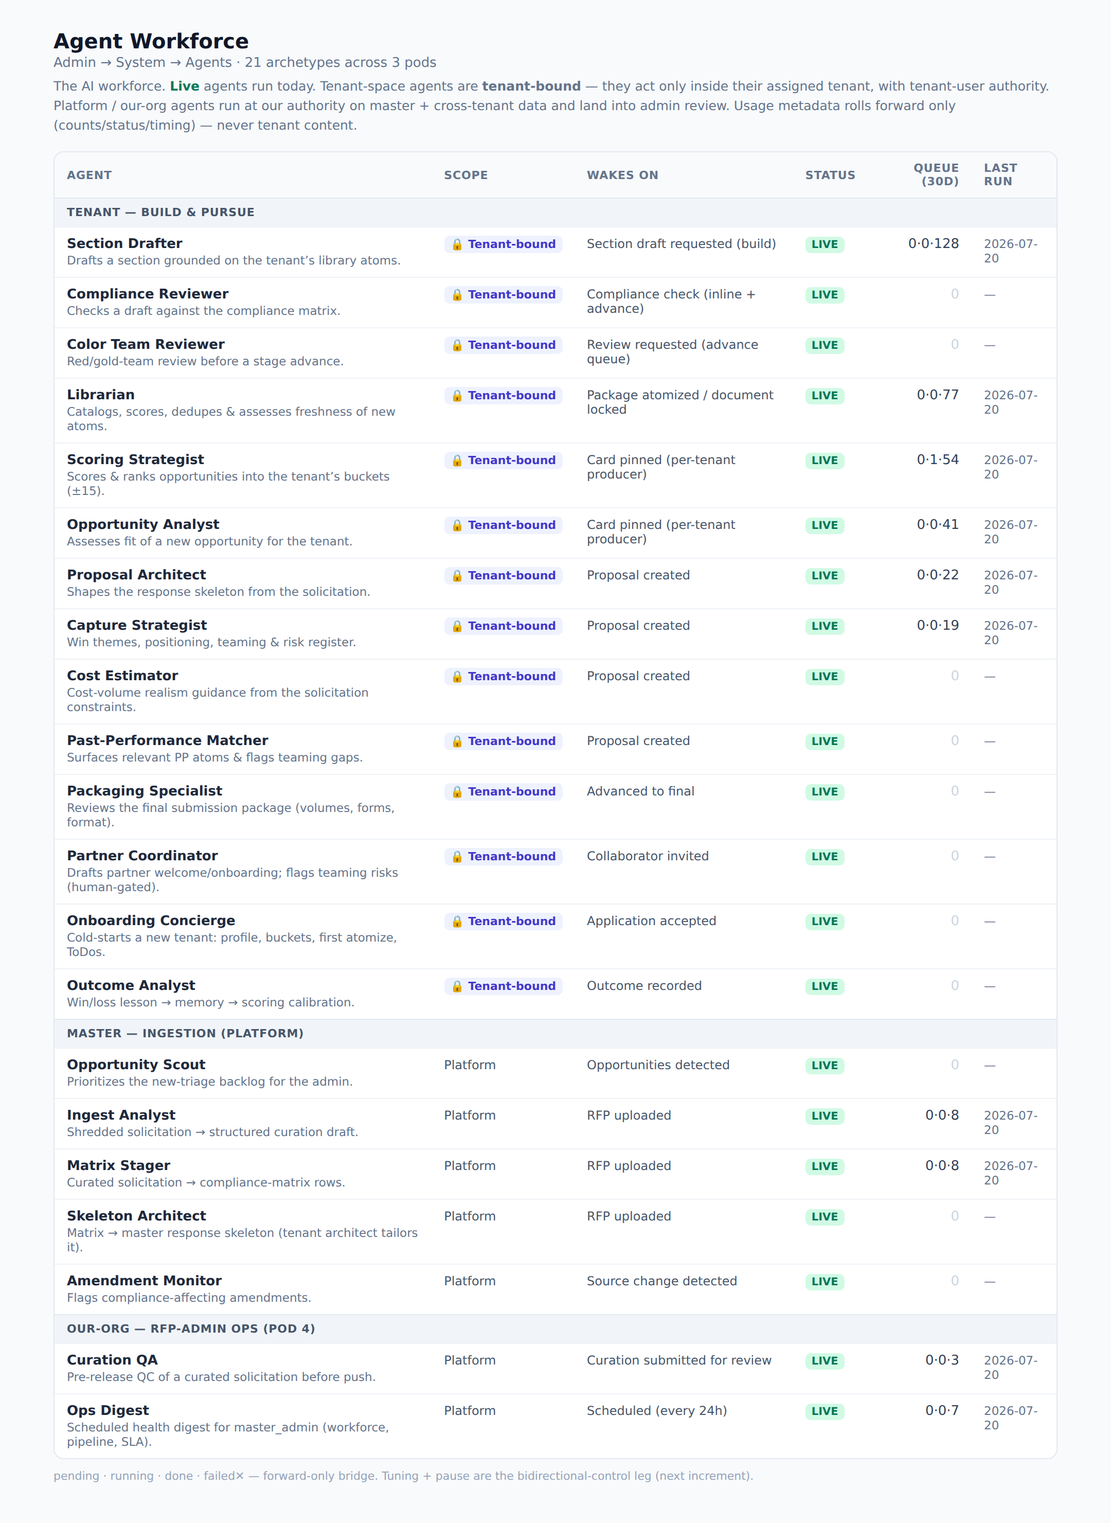
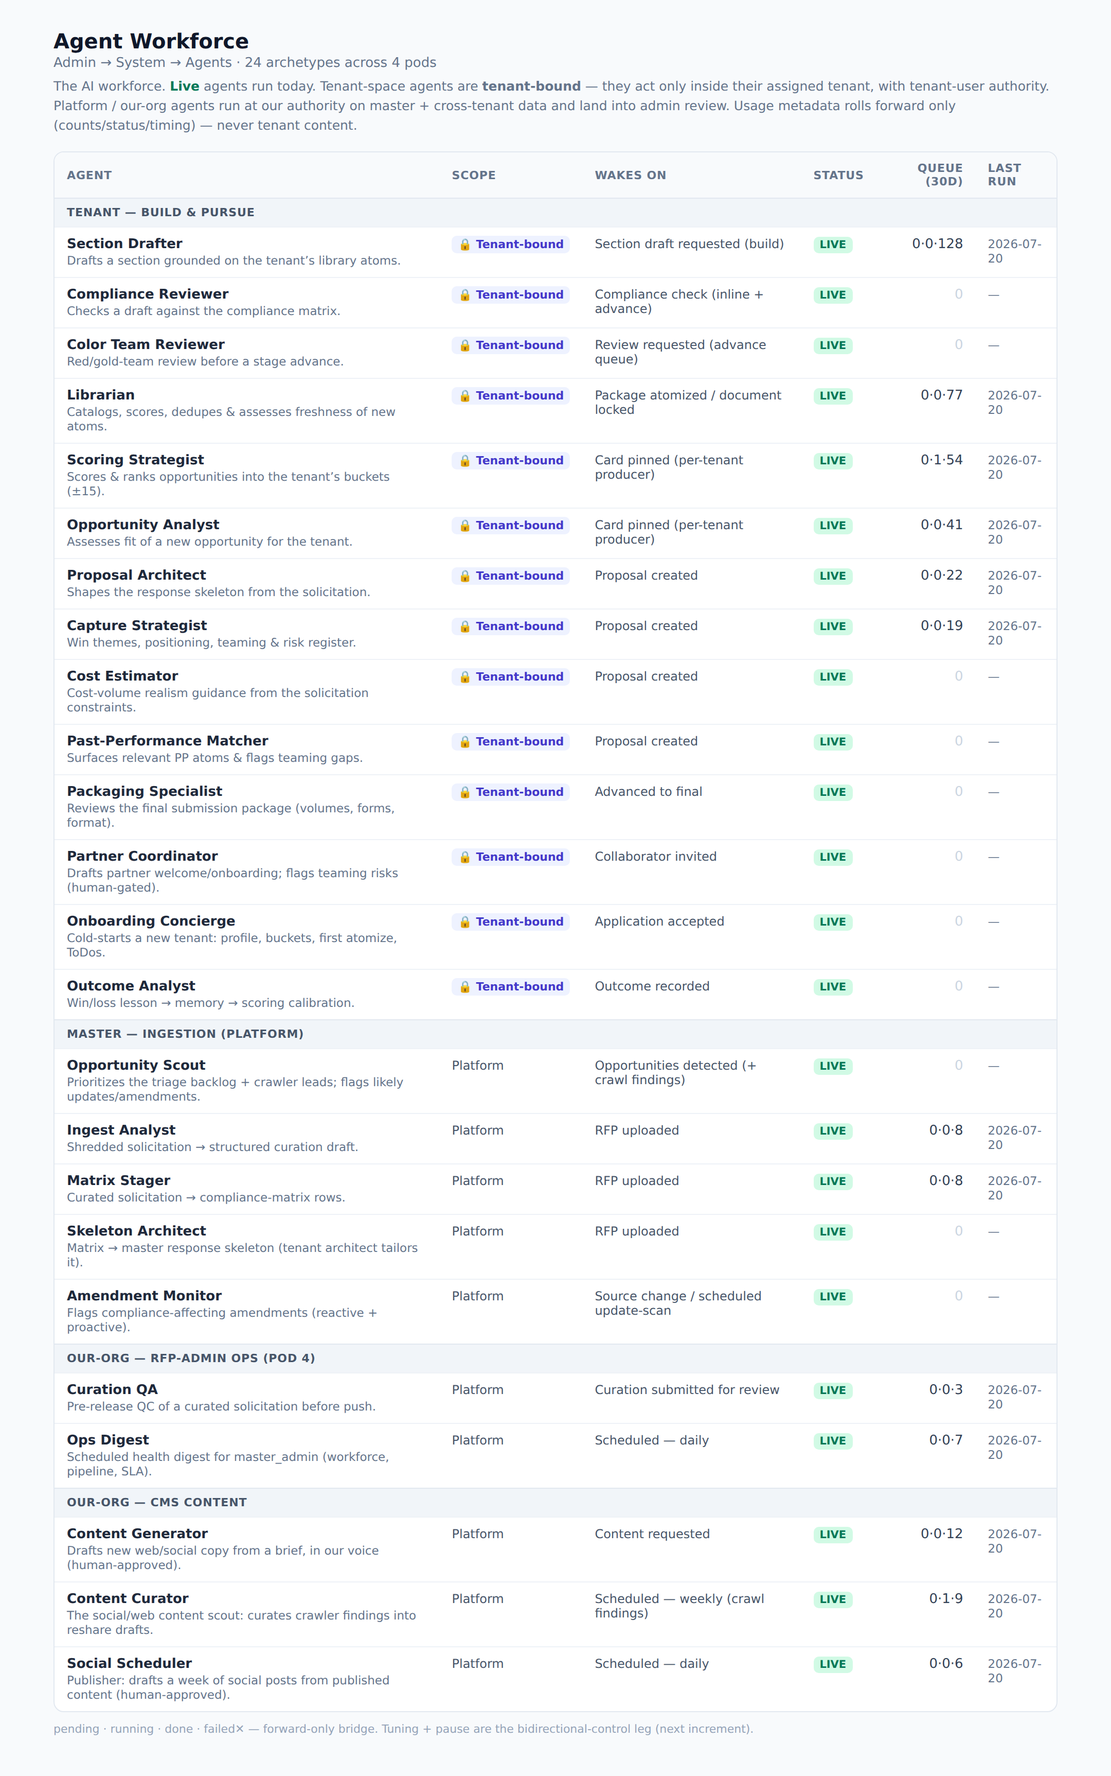
Crawler worker + oversight/docs/screenshot — scout/CMS run complete (24 archetypes)
- workers/content_crawler.py — the WORKER that feeds the scouts: reads enabled scout_sources,
  fetches via a PLUGGABLE fetcher, upserts deduped scout_findings (ON CONFLICT restates the
  partial-index WHERE per the CLAUDE.md SOP), and logs a scout_runs history row with outcome.
  Fetcher injected → DB write/dedup/history loop is testable without network; deploy plugs in an
  RSS/HTML/social fetcher. Drive-tested (crawl→findings→run, dedup→0-new, failed-fetch→failed run).
- /admin/agents roster: added the CMS content pod (content_generator/curator/social_scheduler) +
  updated the scout/amendment triggers → 24 agents across 4 pods. tsc clean. Screenshot regenerated.
- docs/AGENT_ORG_WORKFORCE.md: CMS pod + scout expansion + crawl architecture (sources → findings →
  agents, with run-history/outcomes), the shared-cron/UTC/display-tz model, email delivery to the
  team inbox, and the mailing-list scout as a one-fetcher extension.

226 agent/workflow/cron/crawler tests green.

Claude-Session: https://claude.ai/code/session_014WpKLE6LTPMraFbTacbbBV

diff --git a/frontend/components/admin/agent-workforce.tsx b/frontend/components/admin/agent-workforce.tsx
@@ -12,7 +12,11 @@
 import { useEffect, useState } from 'react';
 
 type Status = 'live' | 'wired' | 'dormant';
-type Pod = 'Tenant — build & pursue' | 'Master — ingestion (platform)' | 'Our-org — RFP-admin ops';
+type Pod =
+  | 'Tenant — build & pursue'
+  | 'Master — ingestion (platform)'
+  | 'Our-org — RFP-admin ops'
+  | 'Our-org — CMS content';
 interface Agent {
   role: string;
   label: string;
@@ -27,6 +31,7 @@ const POD_ORDER: Pod[] = [
   'Tenant — build & pursue',
   'Master — ingestion (platform)',
   'Our-org — RFP-admin ops',
+  'Our-org — CMS content',
 ];
 
 // The 21 archetypes registered in the pipeline AgentFabric, grouped by pod. Tenant-scope
@@ -50,14 +55,18 @@ const ROSTER: Agent[] = [
   { role: 'onboarding_agent', label: 'Onboarding Concierge', scope: 'tenant', trigger: 'Application accepted', status: 'live', pod: 'Tenant — build & pursue', does: 'Cold-starts a new tenant: profile, buckets, first atomize, getting-started ToDos.' },
   { role: 'outcome_analyst', label: 'Outcome Analyst', scope: 'tenant', trigger: 'Outcome recorded', status: 'live', pod: 'Tenant — build & pursue', does: 'Win/loss lesson → memory → scoring calibration.' },
   // ── Master — ingestion (platform) ────────────────────────────────────────
-  { role: 'opportunity_scout', label: 'Opportunity Scout', scope: 'platform', trigger: 'Opportunities detected', status: 'live', pod: 'Master — ingestion (platform)', does: 'Prioritizes the new-triage backlog for the admin.' },
+  { role: 'opportunity_scout', label: 'Opportunity Scout', scope: 'platform', trigger: 'Opportunities detected (+ crawl findings)', status: 'live', pod: 'Master — ingestion (platform)', does: 'Prioritizes the triage backlog + crawler leads; flags likely updates/amendments.' },
   { role: 'ingest_analyst', label: 'Ingest Analyst', scope: 'platform', trigger: 'RFP uploaded', status: 'live', pod: 'Master — ingestion (platform)', does: 'Shredded solicitation → structured curation draft.' },
   { role: 'matrix_stager', label: 'Matrix Stager', scope: 'platform', trigger: 'RFP uploaded', status: 'live', pod: 'Master — ingestion (platform)', does: 'Curated solicitation → compliance-matrix rows.' },
   { role: 'skeleton_architect', label: 'Skeleton Architect', scope: 'platform', trigger: 'RFP uploaded', status: 'live', pod: 'Master — ingestion (platform)', does: 'Matrix → master response skeleton (tenant architect tailors it).' },
   { role: 'amendment_monitor', label: 'Amendment Monitor', scope: 'platform', trigger: 'Source change detected', status: 'live', pod: 'Master — ingestion (platform)', does: 'Flags compliance-affecting amendments.' },
   // ── Our-org — RFP-admin ops (POD 4) ──────────────────────────────────────
   { role: 'curation_qa', label: 'Curation QA', scope: 'platform', trigger: 'Curation submitted for review', status: 'live', pod: 'Our-org — RFP-admin ops', does: 'Pre-release QC of a curated solicitation before push.' },
-  { role: 'ops_digest', label: 'Ops Digest', scope: 'platform', trigger: 'Scheduled (every 24h)', status: 'live', pod: 'Our-org — RFP-admin ops', does: 'Scheduled health digest for master_admin (workforce, pipeline, SLA).' },
+  { role: 'ops_digest', label: 'Ops Digest', scope: 'platform', trigger: 'Scheduled — daily', status: 'live', pod: 'Our-org — RFP-admin ops', does: 'Scheduled health digest for master_admin (workforce, pipeline, SLA).' },
+  // ── Our-org — CMS content ────────────────────────────────────────────────
+  { role: 'content_generator', label: 'Content Generator', scope: 'platform', trigger: 'Content requested', status: 'live', pod: 'Our-org — CMS content', does: 'Drafts new web/social copy from a brief, in our published voice (human-approved).' },
+  { role: 'content_curator', label: 'Content Curator', scope: 'platform', trigger: 'Scheduled — weekly (crawl findings)', status: 'live', pod: 'Our-org — CMS content', does: 'The social/web content scout: curates crawler findings into reshare drafts.' },
+  { role: 'social_scheduler', label: 'Social Scheduler', scope: 'platform', trigger: 'Scheduled — daily', status: 'live', pod: 'Our-org — CMS content', does: 'Publisher: drafts a week of social posts from published content (human-approved).' },
 ];
 
 interface Stat { pending: number; running: number; done: number; failed: number; lastRun: string | null }

diff --git a/pipeline/src/workers/content_crawler.py b/pipeline/src/workers/content_crawler.py
@@ -1,0 +1,102 @@
+"""
+================================================================================
+Content / Opportunity Crawler  (the WORKER that feeds the scouts)
+================================================================================
+
+Reads enabled `scout_sources` (org websites / social handles / RSS), fetches candidate
+items via a PLUGGABLE fetcher, dedups, and writes them to `scout_findings` — plus a
+`scout_runs` history row (role scout|watcher, kind='crawl') carrying the run's outcome.
+The agents READ the findings: content_curator (reshare drafts) and opportunity_scout
+(triage leads). This is the content/opportunity analog of how the ingesters populate
+`opportunities`.
+
+ARCHITECTURE (same as everything else):
+  - Runs on the SHARED cron: a scheduled `library:content.crawl_requested` event → an ACTION
+    step calls crawl_all(). One time manager, one audit trail (scout_runs), forward-only.
+  - The FETCHER is injected. On deploy it is an RSS/HTML/social fetcher making outbound HTTPS
+    via the agent proxy (respecting robots + rate limits) or an org's social API; in tests it's
+    a stub. Keeping fetch pluggable means the DB write/dedup/history loop is testable without
+    network, and new source kinds (mailing lists, etc.) are a new fetcher, not a new pipeline.
+  - Idempotent: dedup_hash(source,url,title) + ON CONFLICT DO NOTHING, so re-crawls don't
+    duplicate. Findings start status='new'; their OUTCOME (reposted/pursued/dismissed) is set
+    downstream by the curator/scout landing.
+================================================================================
+"""
+import hashlib
+import json
+import logging
+
+logger = logging.getLogger("pipeline.workers.content_crawler")
+
+
+def dedup_hash(source_id, url: str | None, title: str | None) -> str:
+    """Stable idempotency key for a finding."""
+    return hashlib.sha256(f"{source_id}|{url or ''}|{title or ''}".encode("utf-8")).hexdigest()
+
+
+async def crawl_source(conn, source: dict, fetch_fn) -> dict:
+    """Crawl one source: open a scout_runs row, fetch candidate items, upsert findings
+    (idempotent), then finalize the run with counts + outcome. `fetch_fn(source)` returns a
+    list of dicts: {title, url, snippet, author, published_at, kind}. Never raises — a failed
+    source is recorded as a failed run and the crawl continues."""
+    purpose = source.get("purpose", "content")
+    role = "watcher" if purpose == "opportunity" else "scout"
+    run_id = await conn.fetchval(
+        """INSERT INTO scout_runs (role, kind, source_id, triggered_by, started_at, status)
+           VALUES ($1, 'crawl', $2, 'cron', now(), 'running') RETURNING id""",
+        role, source["id"],
+    )
+    found = new = 0
+    error = None
+    status = "completed"
+    try:
+        items = await fetch_fn(source)
+        for it in (items or []):
+            found += 1
+            dh = dedup_hash(source["id"], it.get("url"), it.get("title"))
+            inserted = await conn.fetchrow(
+                """INSERT INTO scout_findings
+                       (source_id, run_id, purpose, kind, title, url, snippet, author, published_at, dedup_hash, raw)
+                   VALUES ($1, $2, $3, $4, $5, $6, $7, $8, $9, $10, $11::jsonb)
+                   ON CONFLICT (dedup_hash) WHERE dedup_hash IS NOT NULL DO NOTHING
+                   RETURNING id""",
+                source["id"], run_id, purpose, it.get("kind"), it.get("title"), it.get("url"),
+                it.get("snippet"), it.get("author"), it.get("published_at"), dh, json.dumps(it),
+            )
+            if inserted:
+                new += 1
+    except Exception as e:
+        error = str(e)[:300]
+        status = "failed"
+        logger.warning("crawl_source %s failed: %s", source.get("name"), e)
+
+    await conn.execute(
+        """UPDATE scout_runs
+           SET finished_at = now(), found_count = $1, new_count = $2, status = $3, error = $4, outcome = $5
+           WHERE id = $6""",
+        found, new, status, error, f"{new} new / {found} found", run_id,
+    )
+    try:
+        await conn.execute("UPDATE scout_sources SET last_crawled_at = now() WHERE id = $1", source["id"])
+    except Exception:
+        pass
+    return {"run_id": str(run_id), "source": source.get("name"), "found": found, "new": new, "status": status}
+
+
+async def crawl_all(conn, fetch_fn) -> list[dict]:
+    """Crawl every enabled scout_source and return a per-source summary. Called from a
+    scheduled ACTION step on the shared cron."""
+    sources = await conn.fetch(
+        "SELECT id, name, url, kind, purpose FROM scout_sources WHERE enabled = true ORDER BY name"
+    )
+    summary = []
+    for s in sources:
+        summary.append(await crawl_source(conn, dict(s), fetch_fn))
+    logger.info("content crawler: %d source(s), %d new finding(s)",
+                len(summary), sum(x["new"] for x in summary))
+    return summary
+
+
+async def _null_fetch(_source) -> list[dict]:
+    """Default fetcher — no network. Deploy injects a real RSS/HTML/social fetcher."""
+    return []

diff --git a/pipeline/tests/test_content_crawler.py b/pipeline/tests/test_content_crawler.py
@@ -1,0 +1,69 @@
+"""The content/opportunity crawler worker feeds the scouts: reads enabled scout_sources,
+fetches via a pluggable fetcher, writes deduped scout_findings + a scout_runs history row with
+outcome. Drive-tested against the sandbox DB with a stub fetcher (no network) — proving the
+crawl → findings → history → outcome loop and idempotent dedup end-to-end."""
+import os
+import uuid
+
+import asyncpg
+import pytest
+
+from workers.content_crawler import crawl_all, crawl_source, dedup_hash
+
+DATABASE_URL = os.getenv("DATABASE_URL")
+pytestmark = pytest.mark.skipif(not DATABASE_URL, reason="requires sandbox DATABASE_URL")
+
+
+async def _stub_fetch(_source):
+    return [
+        {"title": "Agency posts new SBIR topics", "url": "https://x/1", "snippet": "...", "kind": "post"},
+        {"title": "Program office update", "url": "https://x/2", "snippet": "...", "kind": "article"},
+    ]
+
+
+@pytest.mark.asyncio
+async def test_crawl_writes_findings_run_and_dedups():
+    conn = await asyncpg.connect(DATABASE_URL)
+    src_id = None
+    try:
+        src_id = await conn.fetchval(
+            """INSERT INTO scout_sources (name, kind, url, purpose, enabled)
+               VALUES ('TEST crawler src', 'rss', $1, 'content', true) RETURNING id""",
+            f"https://test/{uuid.uuid4()}",
+        )
+        source = {"id": src_id, "name": "TEST crawler src", "purpose": "content"}
+
+        # First crawl: 2 items → 2 new findings + a completed run.
+        res = await crawl_source(conn, source, _stub_fetch)
+        assert res["found"] == 2 and res["new"] == 2 and res["status"] == "completed"
+
+        findings = await conn.fetchval("SELECT count(*) FROM scout_findings WHERE source_id = $1", src_id)
+        assert findings == 2
+        run = await conn.fetchrow(
+            "SELECT role, kind, found_count, new_count, status, outcome FROM scout_runs WHERE source_id = $1", src_id)
+        assert run["role"] == "scout" and run["kind"] == "crawl"
+        assert run["found_count"] == 2 and run["new_count"] == 2 and run["status"] == "completed"
+
+        # Re-crawl the same items: dedup → 0 new (idempotent).
+        res2 = await crawl_source(conn, source, _stub_fetch)
+        assert res2["found"] == 2 and res2["new"] == 0
+        assert await conn.fetchval("SELECT count(*) FROM scout_findings WHERE source_id = $1", src_id) == 2
+
+        # A failing fetcher is recorded as a failed run, not raised.
+        async def _boom(_s):
+            raise RuntimeError("network down")
+        res3 = await crawl_source(conn, source, _boom)
+        assert res3["status"] == "failed"
+    finally:
+        if src_id is not None:
+            await conn.execute("DELETE FROM scout_findings WHERE source_id = $1", src_id)
+            await conn.execute("DELETE FROM scout_runs WHERE source_id = $1", src_id)
+            await conn.execute("DELETE FROM scout_sources WHERE id = $1", src_id)
+        await conn.close()
+
+
+def test_dedup_hash_stable():
+    a = dedup_hash("s1", "https://u", "t")
+    b = dedup_hash("s1", "https://u", "t")
+    c = dedup_hash("s1", "https://u", "different")
+    assert a == b and a != c

diff --git a/docs/AGENT_ORG_WORKFORCE.md b/docs/AGENT_ORG_WORKFORCE.md
@@ -3,10 +3,11 @@
 **Companion to `docs/AGENT_WORKFORCE.md`** (customer + master workforce) and `docs/AGENT_ROADMAP.md`.
 Those agents serve the *customers'* proposals and the *master* ingestion pipeline. This doc is the
 **our-org** workforce — agents that run **RFP Pipeline the business** (market → sell → onboard →
-support → operate), at **our authority** (master_admin / rfp_admin), mostly on the CMS/CRM + admin
-surface. Four pods; **POD 4 is built**, POD 1–3 are the forward plan.
+support → operate), at **our authority** (master_admin / rfp_admin), mostly on the CMS + admin
+surface. **POD 4 (RFP-admin ops) and the CMS content pod are built, plus the scout expansion +
+crawl infrastructure.** The fabric now registers **24 archetypes across 4 pods**.
 
-![Agent Workforce roster — 21 archetypes across 3 pods](./agent-workforce/img/org-workforce-roster.png)
+![Agent Workforce roster — 24 archetypes across 4 pods](./agent-workforce/img/org-workforce-roster.png)
 
 ---
 
@@ -22,11 +23,16 @@ missing:
    `condition: toState == "review_requested"` — i.e. only the *request_review* transition (curation
    done, pre-push). This is the cheapest way to add an admin gate: find the state-machine event that
    already fires and attach a conditional workflow.
-2. **Scheduled (cron-shaped) trigger** — genuinely new for this engine.
-   The workflow engine is **event-only** (`EventTrigger` = namespace/type/phase, no cron). `ops_digest`
-   needs "every 24h", so we added a **scheduler in the pipeline main loop** (`run_ops_digest_scheduler`)
-   that emits `system:ops.digest_requested` on an interval → the normal event → workflow path runs. This
-   is the reusable bridge from "on a schedule" to "an event fires"; future scheduled agents reuse it.
+2. **Scheduled (cron-shaped) trigger** — on the SHARED cron manager.
+   The workflow engine is **event-only** (`EventTrigger` = namespace/type/phase, no cron), so scheduled
+   work rides the existing cron: a `run_type='event'` row in **`pipeline_schedules`** (source
+   `namespace:type`) is ticked by **`ingest.dispatcher.tick_schedules`**, which emits the `system_event`
+   → the normal event→workflow→agent path runs it. One time manager, one event bus, one audit — no
+   bespoke scheduler. **UTC canonical** end-to-end (schedules, cron math, audit — microsecond precise);
+   each admin picks a **display timezone** (`users.timezone`) the UI renders in. Scheduled triggers are
+   `phase='single'` forward-only postings, so audit + actions stay in sync by construction. Adding a new
+   scheduled agent (ops digest, update-scan, content resurface, social, a future mailing-list scout) is a
+   single `pipeline_schedules` row.
 
 Both keep every #117/#120 invariant: advisory → guardrail → land-or-review, injection fence where any
 untrusted text is read, runaway caps, and **independent** steps so a failed/skipped agent never
@@ -66,32 +72,63 @@ surface).
 
 ---
 
-## POD 1–3 — the rest of the our-org workforce (forward plan)
+## CMS content pod (BUILT) — find-to-repost + generate + schedule
 
-These sit mostly on the **CMS/CRM** service (its own `govtech_cms` DB, bridged via `system_events`), so
-several wire as CMS-side workers rather than pipeline `AI_INVOKE` steps — confirm insertion points at
-build time, same as POD 4. All produce OUTBOUND, customer-facing content, so the guardrail profile adds
-**brand-voice + no-fabricated-claims + human-approve-before-send** (agents never auto-send external comms).
+CMS (not CRM): our own web + social content, all on `content_pages` (in govtech_intel) + the crawl
+findings store. All platform-scope, all **advisory → human-approve-before-publish** (brand-voice +
+no-fabricated-claims). The scheduled ones email the curated output to the team inbox
+(`eric@rfppipeline.com`) via an independent NOTIFY.
 
-- **POD 1 — Marketing / Content:** `content_marketer` (blog/landing/case-study into the content
-  pipeline — `OnCmsContentRequested` exists), `social_amplifier` (schedule social from published content).
-- **POD 2 — Sales / CRM:** `lead_qualifier` (score/enrich inbound applications/signups), `nurture_drafter`
-  (personalized drip emails by lead stage — email automation exists).
-- **POD 3 — Customer Success:** `activation_watcher` (our-side companion to the tenant `onboarding_agent`:
-  watch activation, draft check-ins, flag at-risk), `support_triage` (triage support/CS ToDos, draft
-  replies, escalate).
+| Agent | Job | Trigger → workflow |
+|---|---|---|
+| **content_generator** | Draft NEW web/social copy from a brief, in our published voice | `library:content.requested` → `AI_INVOKE` in `OnCmsContentRequested` |
+| **content_curator** | The social/web content SCOUT: curate the crawler's findings into repost drafts (w/ attribution) | `library:content.resurface_requested` (scheduled) → `OnContentResurfaceRequested` |
+| **social_scheduler** | PUBLISHER: draft a week of social posts from published content | `system:social.schedule_requested` (scheduled) → `OnSocialScheduleRequested` |
 
-**Recommended order after POD 4:** POD 3 `activation_watcher` (protects the tenants the Onboarding
-Concierge just cold-started) → POD 1 `content_marketer` (workflow exists) → POD 2 `lead_qualifier`
-(feeds the funnel) → the rest.
+## Scout expansion (BUILT) — better find / analyze / look-for-updates
+
+- **opportunity_scout** now reads BOTH the ingested triage queue AND the crawler's opportunity findings
+  (`scout_findings`), analyzes deeper (agency/program/set-aside), and flags **possible updates/amendments**
+  so the admin re-checks compliance instead of double-curating.
+- **`OnSolicitationUpdateScan`** (scheduled, every 6h) — a proactive WATCHER loop that re-scans for
+  compliance-affecting amendments by **reusing the `amendment_monitor` agent** (no new archetype). The
+  proactive counterpart to the reactive `OnSourceChangeDetected → amendment_monitor` path.
+
+## Crawl architecture (anticipated) — sources → findings → agents, with history + outcomes
+
+The content_curator and opportunity_scout consume what a **crawler worker** discovers — the content/
+opportunity analog of how the ingesters populate `opportunities`:
+
+- **`scout_sources`** — the crawl targets (org websites / social handles / RSS, `purpose` = content /
+  opportunity / both; `enabled` + optional per-source cron). An admin adds + enables sources.
+- **`scout_findings`** — candidate items the crawler writes (title/url/snippet/author), deduped by
+  `dedup_hash` (idempotent re-crawls). Each finding carries an **OUTCOME**: new → reviewed →
+  reposted/pursued/dismissed.
+- **`scout_runs`** — uniform RUN HISTORY for **scouts, watchers, and publishers** (role + kind + counts +
+  outcome + timings). One model for all three: "scouts have history and outcomes, and so do publishers
+  and watchers."
+- **`workers/content_crawler.py`** — reads enabled sources, fetches via a **pluggable fetcher**, upserts
+  findings + logs a `scout_runs` row. The fetcher is injected: on deploy it is an RSS/HTML/social fetcher
+  (outbound HTTPS via the agent proxy, robots + rate-limit aware); in tests it's a stub, so the DB
+  write/dedup/history loop is verified without network. Runs on the shared cron via a scheduled crawl
+  event + an ACTION step. New source kinds (a **mailing-list scout**) are a new fetcher, not a new pipeline.
+
+## Still forward (CS / Sales) — descoped this run
+
+Per direction (CMS-first, not CRM), the Customer-Success and Sales agents (`activation_watcher`,
+`support_triage`, `lead_qualifier`, `nurture_drafter`) are the remaining forward plan, on the same
+architecture.
 
 ---
 
 ## Verify
 
 ```
-cd pipeline/src && PYTHONPATH=. python3 -m pytest ../tests/test_pod4_wiring.py ../tests/test_agents.py -q
+cd pipeline/src && PYTHONPATH=. python3 -m pytest ../tests/test_pod4_wiring.py ../tests/test_cms_agents_wiring.py \
+  ../tests/test_scout_expansion_wiring.py ../tests/test_content_crawler.py ../tests/test_agents.py \
+  ../tests/test_cron_next_run.py -q
 ```
-Drive-tested: the scheduler emit lands a valid `system:ops.digest_requested` row that matches
-`OnOpsDigestRequested`; the QA gate matches `finder:solicitation.triaged` only when
-`toState==review_requested`. Fabric registers **21 archetypes**. LLM reasoning runs on deploy.
+Drive-tested end-to-end: `tick_schedules` emits `system:ops.digest_requested` (actor=cron) and advances
+`next_run` from the cron (UTC); the crawler writes deduped `scout_findings` + a `scout_runs` history row
+with outcome; the QA gate matches `finder:solicitation.triaged` only when `toState==review_requested`.
+Fabric registers **24 archetypes**. LLM reasoning runs on deploy (Railway key).
